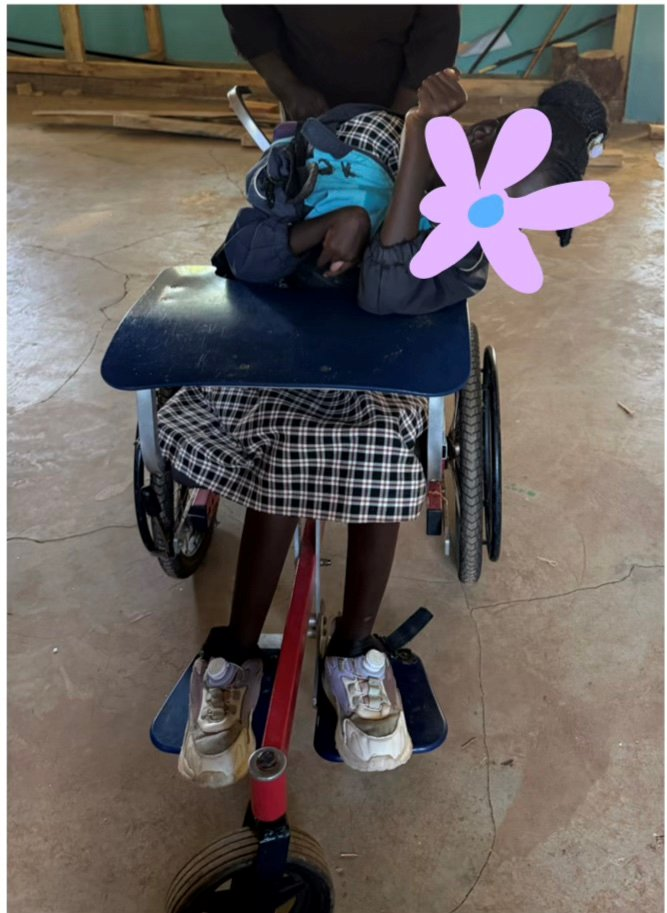
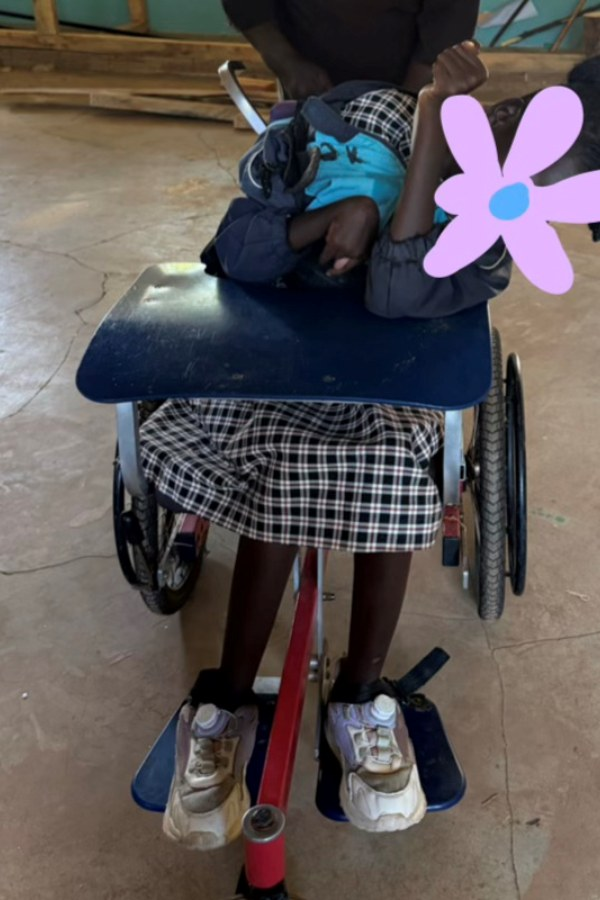
Kabarnet page: aligned close crops for wheelchair before/after

diff --git a/index.html b/index.html
@@ -1069,10 +1069,12 @@
   /* Before / after photo pair inside a story */
   .before-after{display:grid;grid-template-columns:1fr 1fr;gap:10px;}
   .before-after figure{margin:0;}
+  /* Both photos are pre-cropped to 2:3 with the feet on the same line,
+     so they must be shown uncropped to keep that alignment. */
   .before-after img,.before-after .photo-slot{
     width:100%;
-    aspect-ratio:3/4;
-    object-fit:cover;
+    aspect-ratio:2/3;
+    object-fit:fill;
     border-radius:8px;
   }
   .before-after .photo-slot{font-size:.75rem;}
